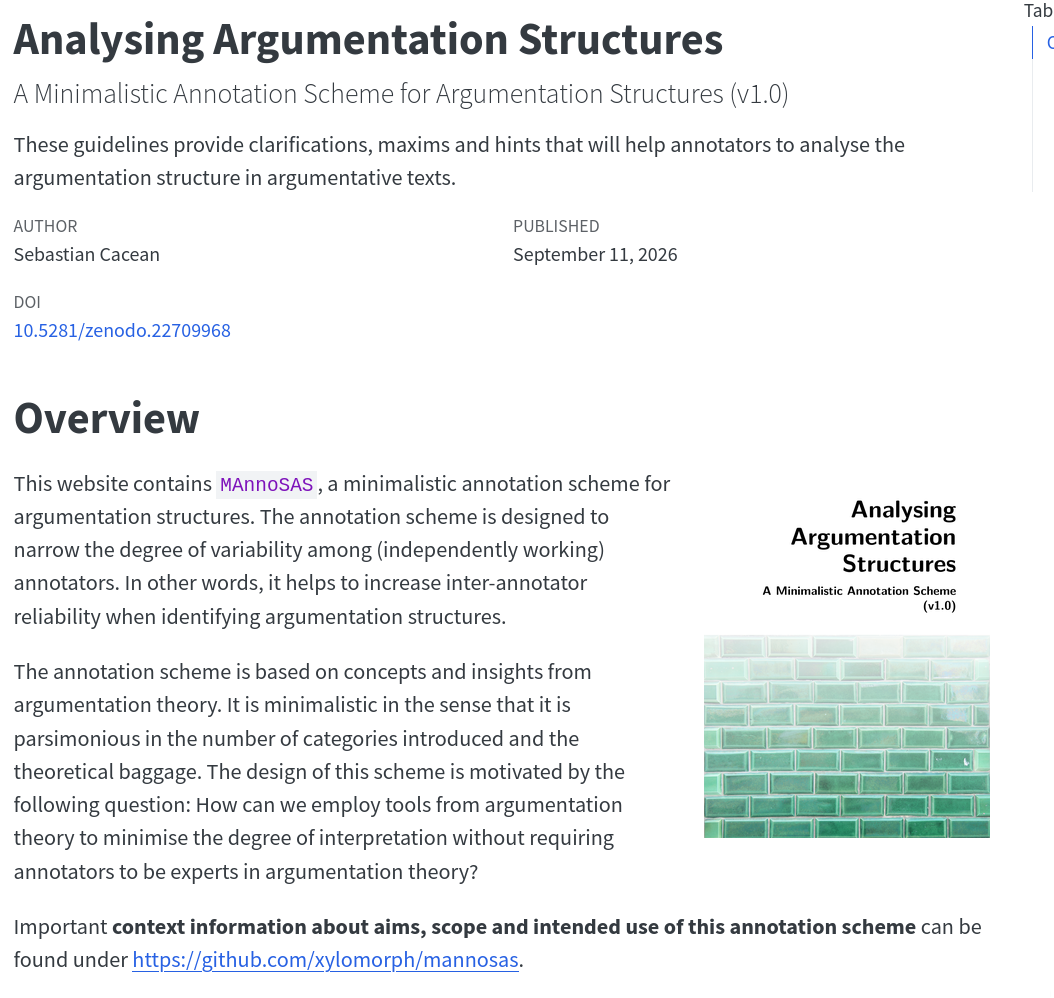
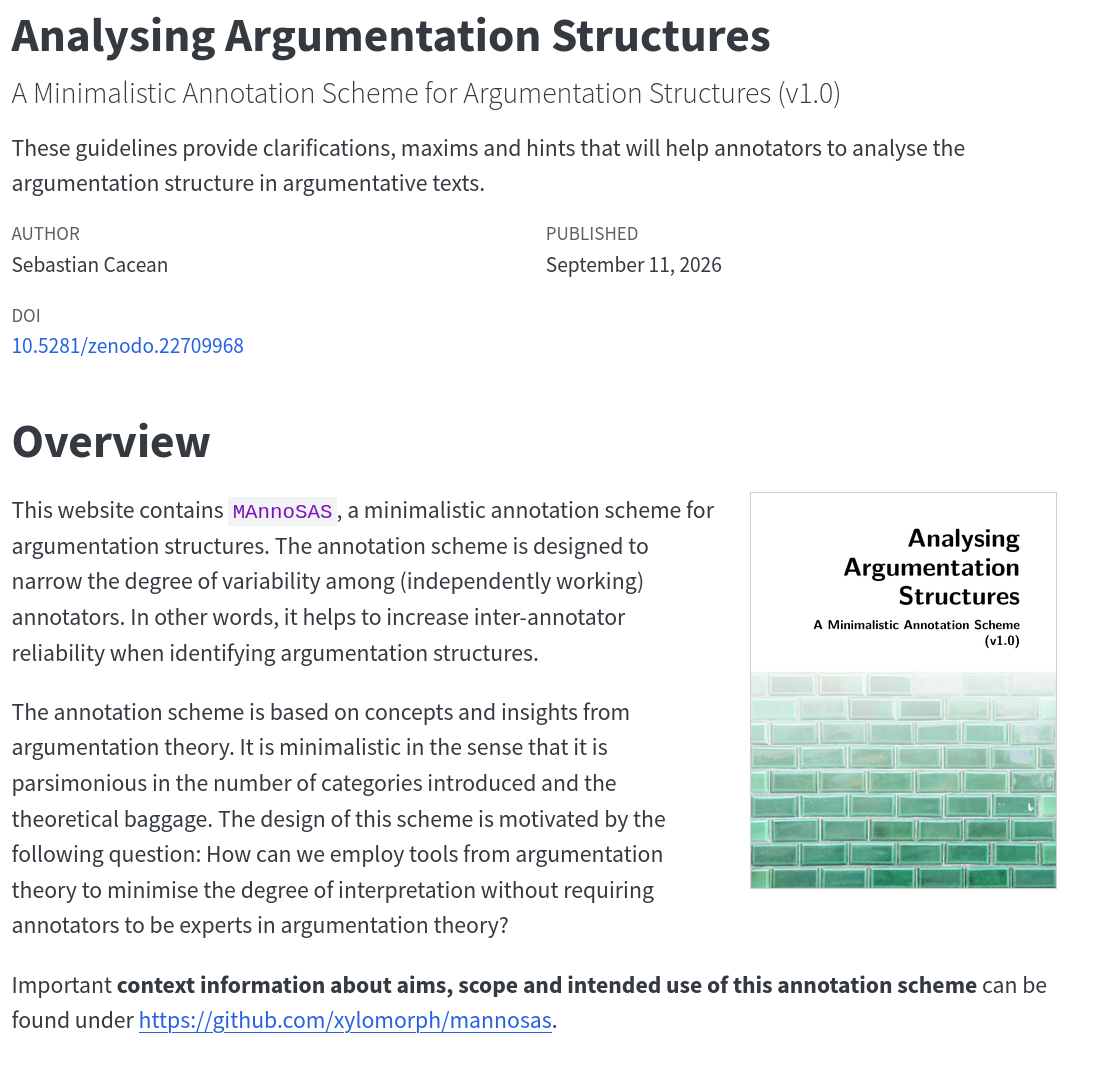
Adding border to thumbnail.

diff --git a/docs/index.html b/docs/index.html
@@ -342,7 +342,7 @@ pre > code.sourceCode > span > a:first-child::before { text-decoration: underlin
 
 <section id="overview" class="level1 unnumbered">
 <h1 class="unnumbered">Overview</h1>
-<p><a href="./Analysing-Argumentation-Structures.pdf" target="_blank"> <img src="./figures/frontpage-thumbnail.png" alt="Download PDF" class="float-right" style="width:220px;"> </a></p>
+<p><a href="./Analysing-Argumentation-Structures.pdf" target="_blank"> <img src="./figures/frontpage-thumbnail.png" alt="Download PDF" class="float-right" style="width:220px; border: 1px solid #d0d0d0;"> </a></p>
 <p>This website contains <code>MAnnoSAS</code>, a minimalistic annotation scheme for argumentation structures. The annotation scheme is designed to narrow the degree of variability among (independently working) annotators. In other words, it helps to increase inter-annotator reliability when identifying argumentation structures.</p>
 <p>The annotation scheme is based on concepts and insights from argumentation theory. It is minimalistic in the sense that it is parsimonious in the number of categories introduced and the theoretical baggage. The design of this scheme is motivated by the following question: How can we employ tools from argumentation theory to minimise the degree of interpretation without requiring annotators to be experts in argumentation theory?</p>
 Important <strong>context information about aims, scope and intended use of this annotation scheme</strong> can be found under <a href="https://github.com/xylomorph/mannosas" class="uri">https://github.com/xylomorph/mannosas</a>.
